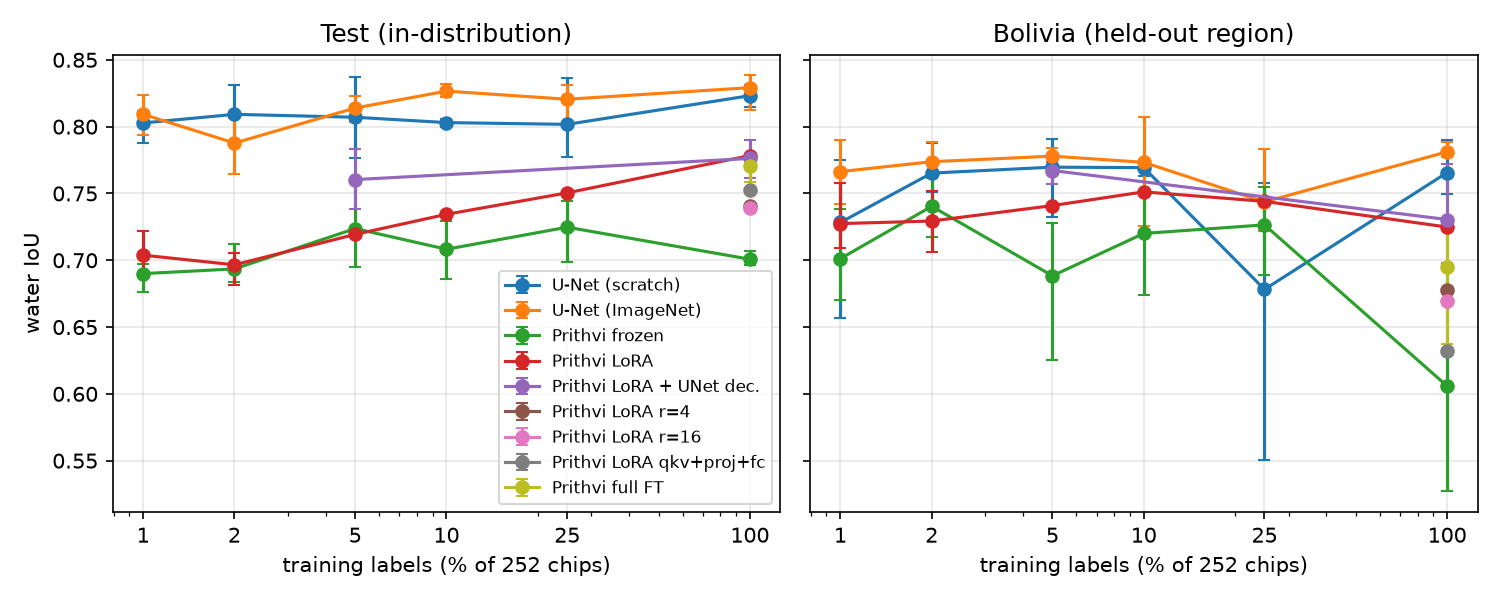
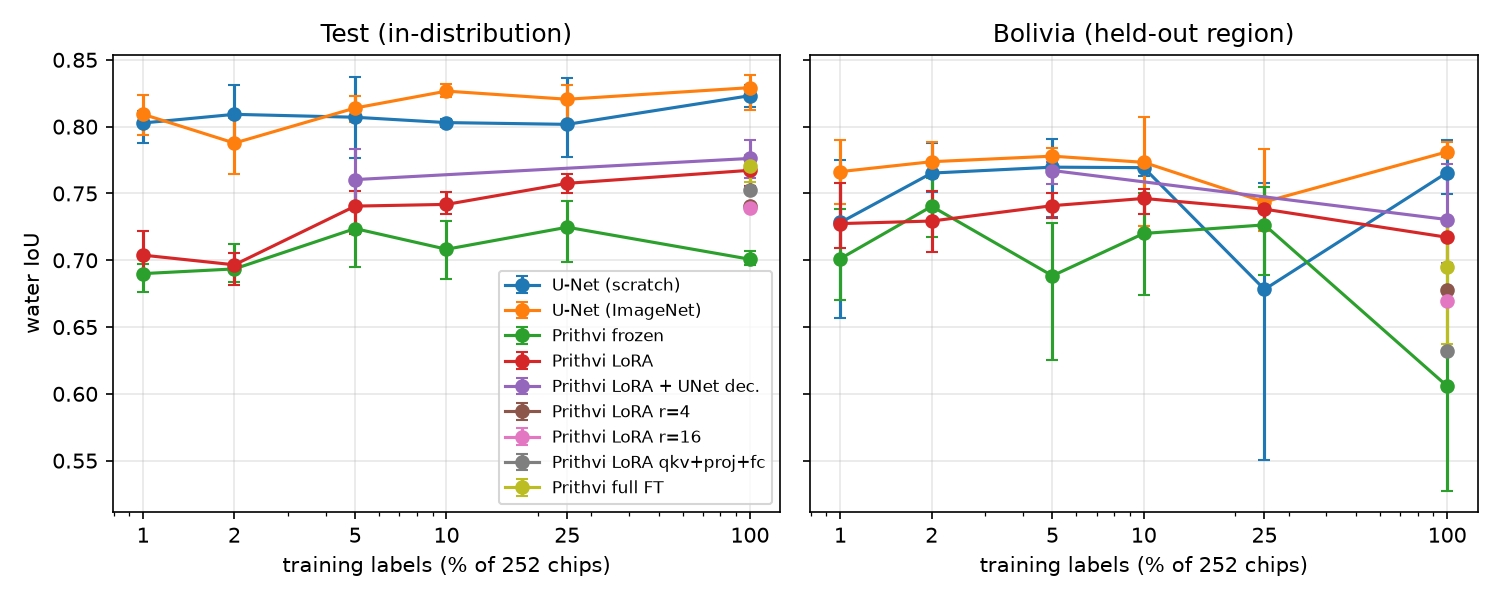
Local queue q10: Prithvi LoRA seeds 1-2 at 100/25/10/5 % (84 runs); tables and figures regenerated
Every main-matrix cell now has three seeds. With the LoRA seeds in, the
single-seed Bolivia advantage of LoRA over full fine-tuning shrinks to
2 points, inside the noise; lab notebook and plan updated accordingly.

Changed region(s): [[0.184, 0.27, 0.5213, 0.42], [0.7053, 0.3, 0.9813, 0.42], [0.1533, 0.42, 0.184, 0.45]]

diff --git a/paper/tables/table_sweep_bolivia.tex b/paper/tables/table_sweep_bolivia.tex
@@ -2,10 +2,10 @@
 \toprule
 Labels & U-Net (scratch) & U-Net (ImageNet) & Prithvi frozen & Prithvi LoRA (r=8) \\
 \midrule
-100\,\% (252) & 0.766 $\pm$ 0.021 & \textbf{0.781 $\pm$ 0.007} & 0.606 $\pm$ 0.083 & 0.725$^\dagger$ \\
-25\,\% (63) & 0.678 $\pm$ 0.112 & 0.744 $\pm$ 0.035 & 0.726 $\pm$ 0.034 & \textbf{0.744$^\dagger$} \\
-10\,\% (25) & 0.769 $\pm$ 0.006 & \textbf{0.773 $\pm$ 0.043} & 0.720 $\pm$ 0.041 & 0.751$^\dagger$ \\
-5\,\% (13) & 0.770 $\pm$ 0.032 & \textbf{0.778 $\pm$ 0.008} & 0.688 $\pm$ 0.055 & 0.741$^\dagger$ \\
+100\,\% (252) & 0.766 $\pm$ 0.021 & \textbf{0.781 $\pm$ 0.007} & 0.606 $\pm$ 0.083 & 0.717 $\pm$ 0.019 \\
+25\,\% (63) & 0.678 $\pm$ 0.112 & \textbf{0.744 $\pm$ 0.035} & 0.726 $\pm$ 0.034 & 0.738 $\pm$ 0.010 \\
+10\,\% (25) & 0.769 $\pm$ 0.006 & \textbf{0.773 $\pm$ 0.043} & 0.720 $\pm$ 0.041 & 0.746 $\pm$ 0.010 \\
+5\,\% (13) & 0.770 $\pm$ 0.032 & \textbf{0.778 $\pm$ 0.008} & 0.688 $\pm$ 0.055 & 0.741 $\pm$ 0.009 \\
 2\,\% (5) & 0.765 $\pm$ 0.020 & \textbf{0.774 $\pm$ 0.014} & 0.740 $\pm$ 0.022 & 0.729 $\pm$ 0.023 \\
 1\,\% (3) & 0.728 $\pm$ 0.063 & \textbf{0.766 $\pm$ 0.024} & 0.701 $\pm$ 0.034 & 0.727 $\pm$ 0.027 \\
 \bottomrule

diff --git a/paper/tables/table_sweep_test.tex b/paper/tables/table_sweep_test.tex
@@ -2,10 +2,10 @@
 \toprule
 Labels & U-Net (scratch) & U-Net (ImageNet) & Prithvi frozen & Prithvi LoRA (r=8) \\
 \midrule
-100\,\% (252) & 0.823 $\pm$ 0.008 & \textbf{0.829 $\pm$ 0.015} & 0.701 $\pm$ 0.005 & 0.778$^\dagger$ \\
-25\,\% (63) & 0.802 $\pm$ 0.031 & \textbf{0.820 $\pm$ 0.016} & 0.725 $\pm$ 0.024 & 0.750$^\dagger$ \\
-10\,\% (25) & 0.803 $\pm$ 0.003 & \textbf{0.827 $\pm$ 0.005} & 0.708 $\pm$ 0.022 & 0.734$^\dagger$ \\
-5\,\% (13) & 0.807 $\pm$ 0.031 & \textbf{0.814 $\pm$ 0.010} & 0.724 $\pm$ 0.034 & 0.719$^\dagger$ \\
+100\,\% (252) & 0.823 $\pm$ 0.008 & \textbf{0.829 $\pm$ 0.015} & 0.701 $\pm$ 0.005 & 0.767 $\pm$ 0.011 \\
+25\,\% (63) & 0.802 $\pm$ 0.031 & \textbf{0.820 $\pm$ 0.016} & 0.725 $\pm$ 0.024 & 0.758 $\pm$ 0.007 \\
+10\,\% (25) & 0.803 $\pm$ 0.003 & \textbf{0.827 $\pm$ 0.005} & 0.708 $\pm$ 0.022 & 0.742 $\pm$ 0.009 \\
+5\,\% (13) & 0.807 $\pm$ 0.031 & \textbf{0.814 $\pm$ 0.010} & 0.724 $\pm$ 0.034 & 0.741 $\pm$ 0.018 \\
 2\,\% (5) & \textbf{0.809 $\pm$ 0.022} & 0.788 $\pm$ 0.021 & 0.694 $\pm$ 0.016 & 0.697 $\pm$ 0.013 \\
 1\,\% (3) & 0.803 $\pm$ 0.013 & \textbf{0.809 $\pm$ 0.015} & 0.690 $\pm$ 0.012 & 0.704 $\pm$ 0.017 \\
 \bottomrule

diff --git a/paper/tables/table_full.tex b/paper/tables/table_full.tex
@@ -5,7 +5,7 @@ Model & Pretraining & Trainable & Test IoU$_w$ & Bolivia IoU$_w$ & GPU min \\
 U-Net (scratch) & -- & 24.4\,M & 0.823 $\pm$ 0.008 & 0.766 $\pm$ 0.021 & 4.9 \\
 U-Net (ImageNet) & ImageNet & 24.4\,M & \textbf{0.829 $\pm$ 0.015} & \textbf{0.781 $\pm$ 0.007} & 4.9 \\
 Prithvi frozen & Prithvi-EO 2.0 & 1.4\,M & 0.701 $\pm$ 0.005 & 0.606 $\pm$ 0.083 & 22.1 \\
-Prithvi LoRA (r=8) & Prithvi-EO 2.0 & 2.2\,M & 0.778$^\dagger$ & 0.725$^\dagger$ & 13.3 \\
+Prithvi LoRA (r=8) & Prithvi-EO 2.0 & 2.2\,M & 0.767 $\pm$ 0.011 & 0.717 $\pm$ 0.019 & 10.4 \\
 Prithvi full FT & Prithvi-EO 2.0 & 305\,M & 0.770 $\pm$ 0.010 & 0.695 $\pm$ 0.050 & 9.3 \\
 \bottomrule
 \end{tabular}

diff --git a/paper/tables/table_ablation.tex b/paper/tables/table_ablation.tex
@@ -3,7 +3,7 @@
 Variant & Trainable & Test IoU$_w$ & Bolivia IoU$_w$ \\
 \midrule
 LoRA r=4, qkv & 1.83\,M & 0.740$^\dagger$ & 0.678$^\dagger$ \\
-LoRA r=8, qkv (main) & 2.23\,M & 0.778$^\dagger$ & 0.725$^\dagger$ \\
+LoRA r=8, qkv (main) & 2.23\,M & 0.767 $\pm$ 0.011 & 0.717 $\pm$ 0.019 \\
 LoRA r=16, qkv & 3.01\,M & 0.739$^\dagger$ & 0.670$^\dagger$ \\
 LoRA r=8, qkv+proj+fc1+fc2 & 4.61\,M & 0.752$^\dagger$ & 0.632$^\dagger$ \\
 LoRA r=8, qkv + multi-scale UNet decoder & 4.65\,M & 0.776 $\pm$ 0.014 & 0.730 $\pm$ 0.038 \\

diff --git a/paper/tables/stats.tex b/paper/tables/stats.tex
@@ -1,1 +1,1 @@
-\newcommand{\nruns}{76}
+\newcommand{\nruns}{84}

diff --git a/docs/LAB_NOTEBOOK.md b/docs/LAB_NOTEBOOK.md
@@ -153,3 +153,18 @@ Template:
 - **LoRA ablation (seed 0, 100 %):** r=4 0.740, r=8 0.778, r=16 0.739, qkv+proj+fc1+fc2 0.752 (Bolivia 0.632). r=8 on qkv is the best setting; wider adaptation overfits the training regions. Single-seed, so the differences of 3-4 points are suggestive rather than conclusive.
 - **Full FT with 3 seeds:** 0.770 ± 0.010 test, 0.695 ± 0.050 Bolivia. LoRA (2.2 M) is at least as good as full FT (305 M) in-distribution and better on Bolivia: claim 3 stands with error bars.
 - Frozen at 2 % / 1 %: 0.694 ± 0.016 and 0.690 ± 0.012; the frozen curve is flat from 100 % to 1 %.
+
+## 2026-09-28, queue q10: LoRA seeds 1-2 done, 84 runs, experiments complete
+- Did: the 8 `prithvi_lora` seed-1/2 runs at 100 / 25 / 10 / 5 % that failed on Colab, run locally instead (3070 Ti, 8.9-11.3 min each, 77 min in total). Every cell of the main matrix now has 3 seeds. Tables, `stats.tex` and figures regenerated.
+- Prithvi LoRA with 3 seeds (test / Bolivia water IoU):
+
+  | labels | test | Bolivia |
+  |---|---|---|
+  | 100 % | 0.767 ± 0.011 | 0.717 ± 0.019 |
+  | 25 % | 0.758 ± 0.007 | 0.738 ± 0.010 |
+  | 10 % | 0.742 ± 0.009 | 0.746 ± 0.010 |
+  | 5 % | 0.741 ± 0.018 | 0.741 ± 0.009 |
+
+- Reading: the seed-0 number at 100 % (0.778) was the best of three; the mean is 0.767, equal to full FT (0.770 ± 0.010). **The single-seed "LoRA beats full FT by 9 pts on Bolivia" does not survive:** 0.717 ± 0.019 vs 0.695 ± 0.050 is a 2-pt difference inside full FT's spread. Claim 3 becomes "LoRA matches full FT at 1/140 of the trainable parameters".
+- The U-Net gap is unchanged: 6-8 pts at every fraction (e.g. 5 %: U-Net ImageNet 0.814 ± 0.010 vs LoRA 0.741 ± 0.018).
+- Next: paper prose.

diff --git a/docs/PLAN.md b/docs/PLAN.md
@@ -65,6 +65,11 @@ Weeks 1–4 and most of weeks 5–8 are done: 41 runs, seed 0 for every model fr
 4. LoRA ablation: rank 4 / 16 and targets `qkv+proj+fc1+fc2` at 100 % (3 runs).
 5. Then: freeze figures, fill Table 1 and the results section of `paper/main.tex`.
 
+### Status after 28 Sep: experiments complete (84 runs)
+Items 1–4 above are done; every main-matrix cell has 3 seeds (ablation r=4 / r=16 / wide targets stay single-seed). With LoRA seeds in, the Bolivia advantage of LoRA over full FT shrank from 9 pts (seed 0) to 2 pts (0.717 ± 0.019 vs 0.695 ± 0.050), inside the noise: the claim is now "LoRA matches full FT with 140x fewer trainable parameters", not "LoRA transfers better".
+
+**Next:** write the paper prose — results (Sec. 5), discussion, related work, conclusion, abstract last; fill the lr / batch / epochs TODO in Sec. 4.3.
+
 ### Weeks 5–6 — LoRA and full fine-tune
 - [ ] `prithvi_lora`: confirm trainable-parameter count is a few million, not 300M. Tune `backbone_lr_mult`, `lora_r` ∈ {4, 8, 16}.
 - [ ] `prithvi_full` with the largest batch that fits; gradient checkpointing if needed.
